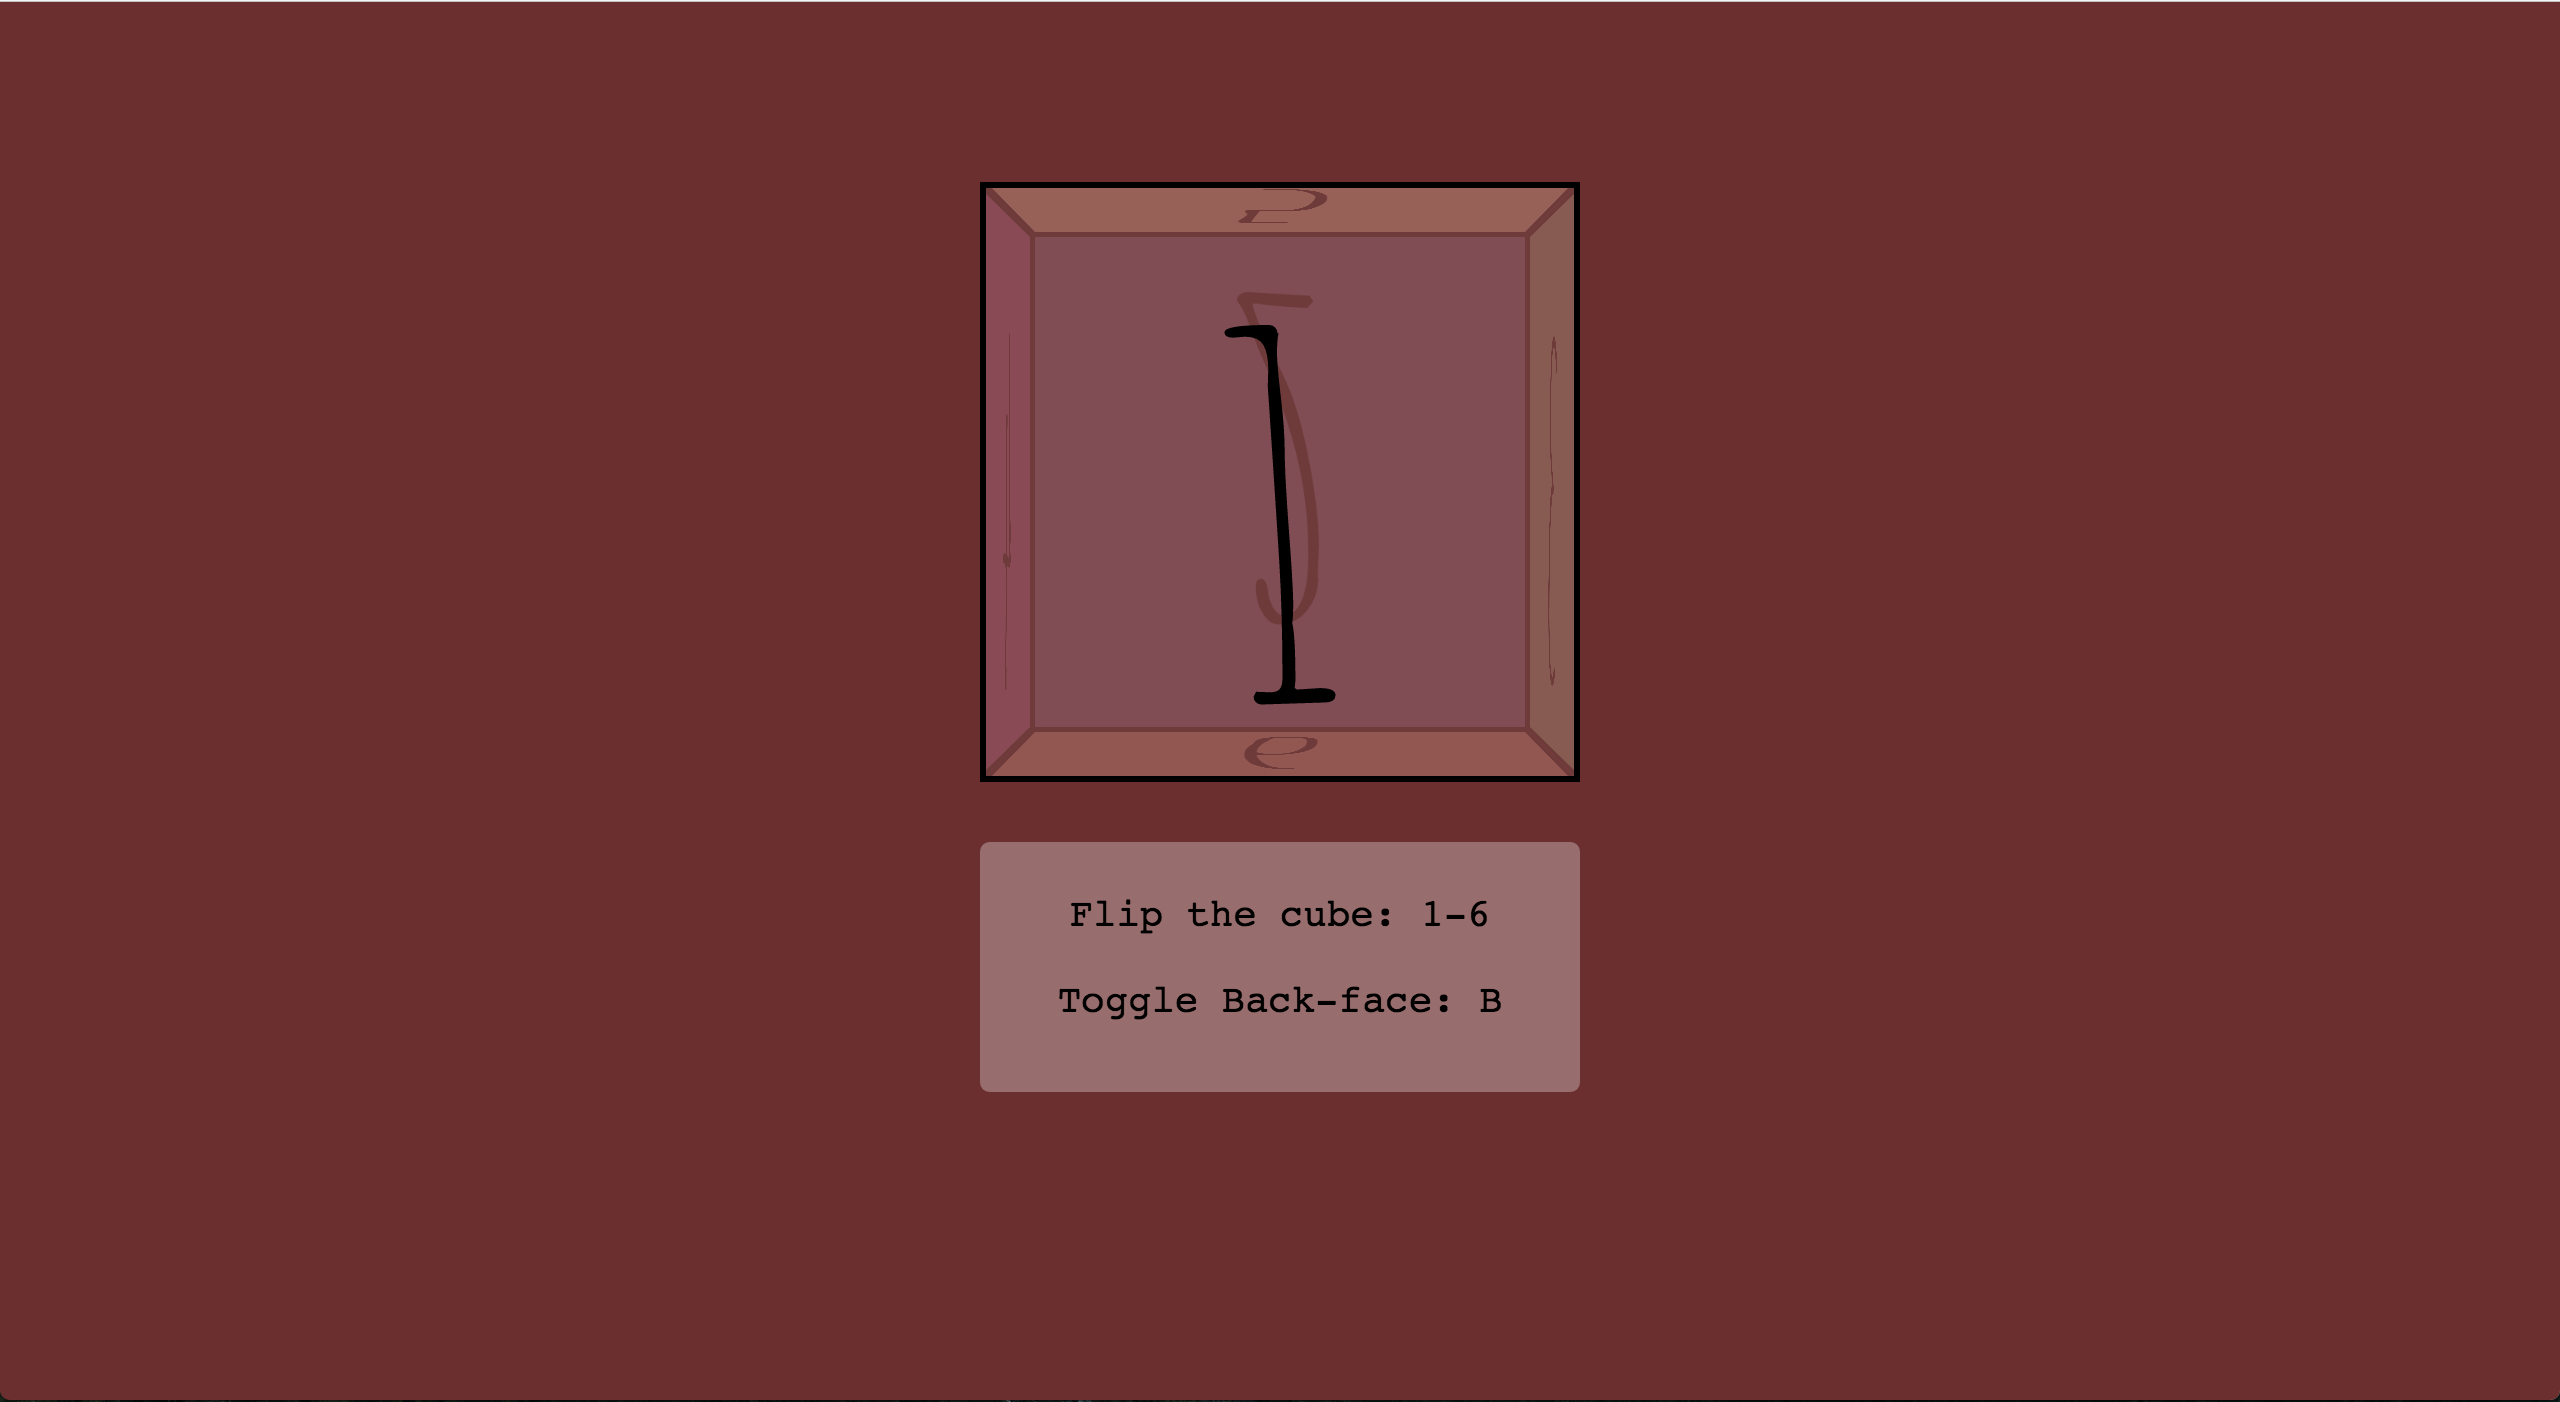
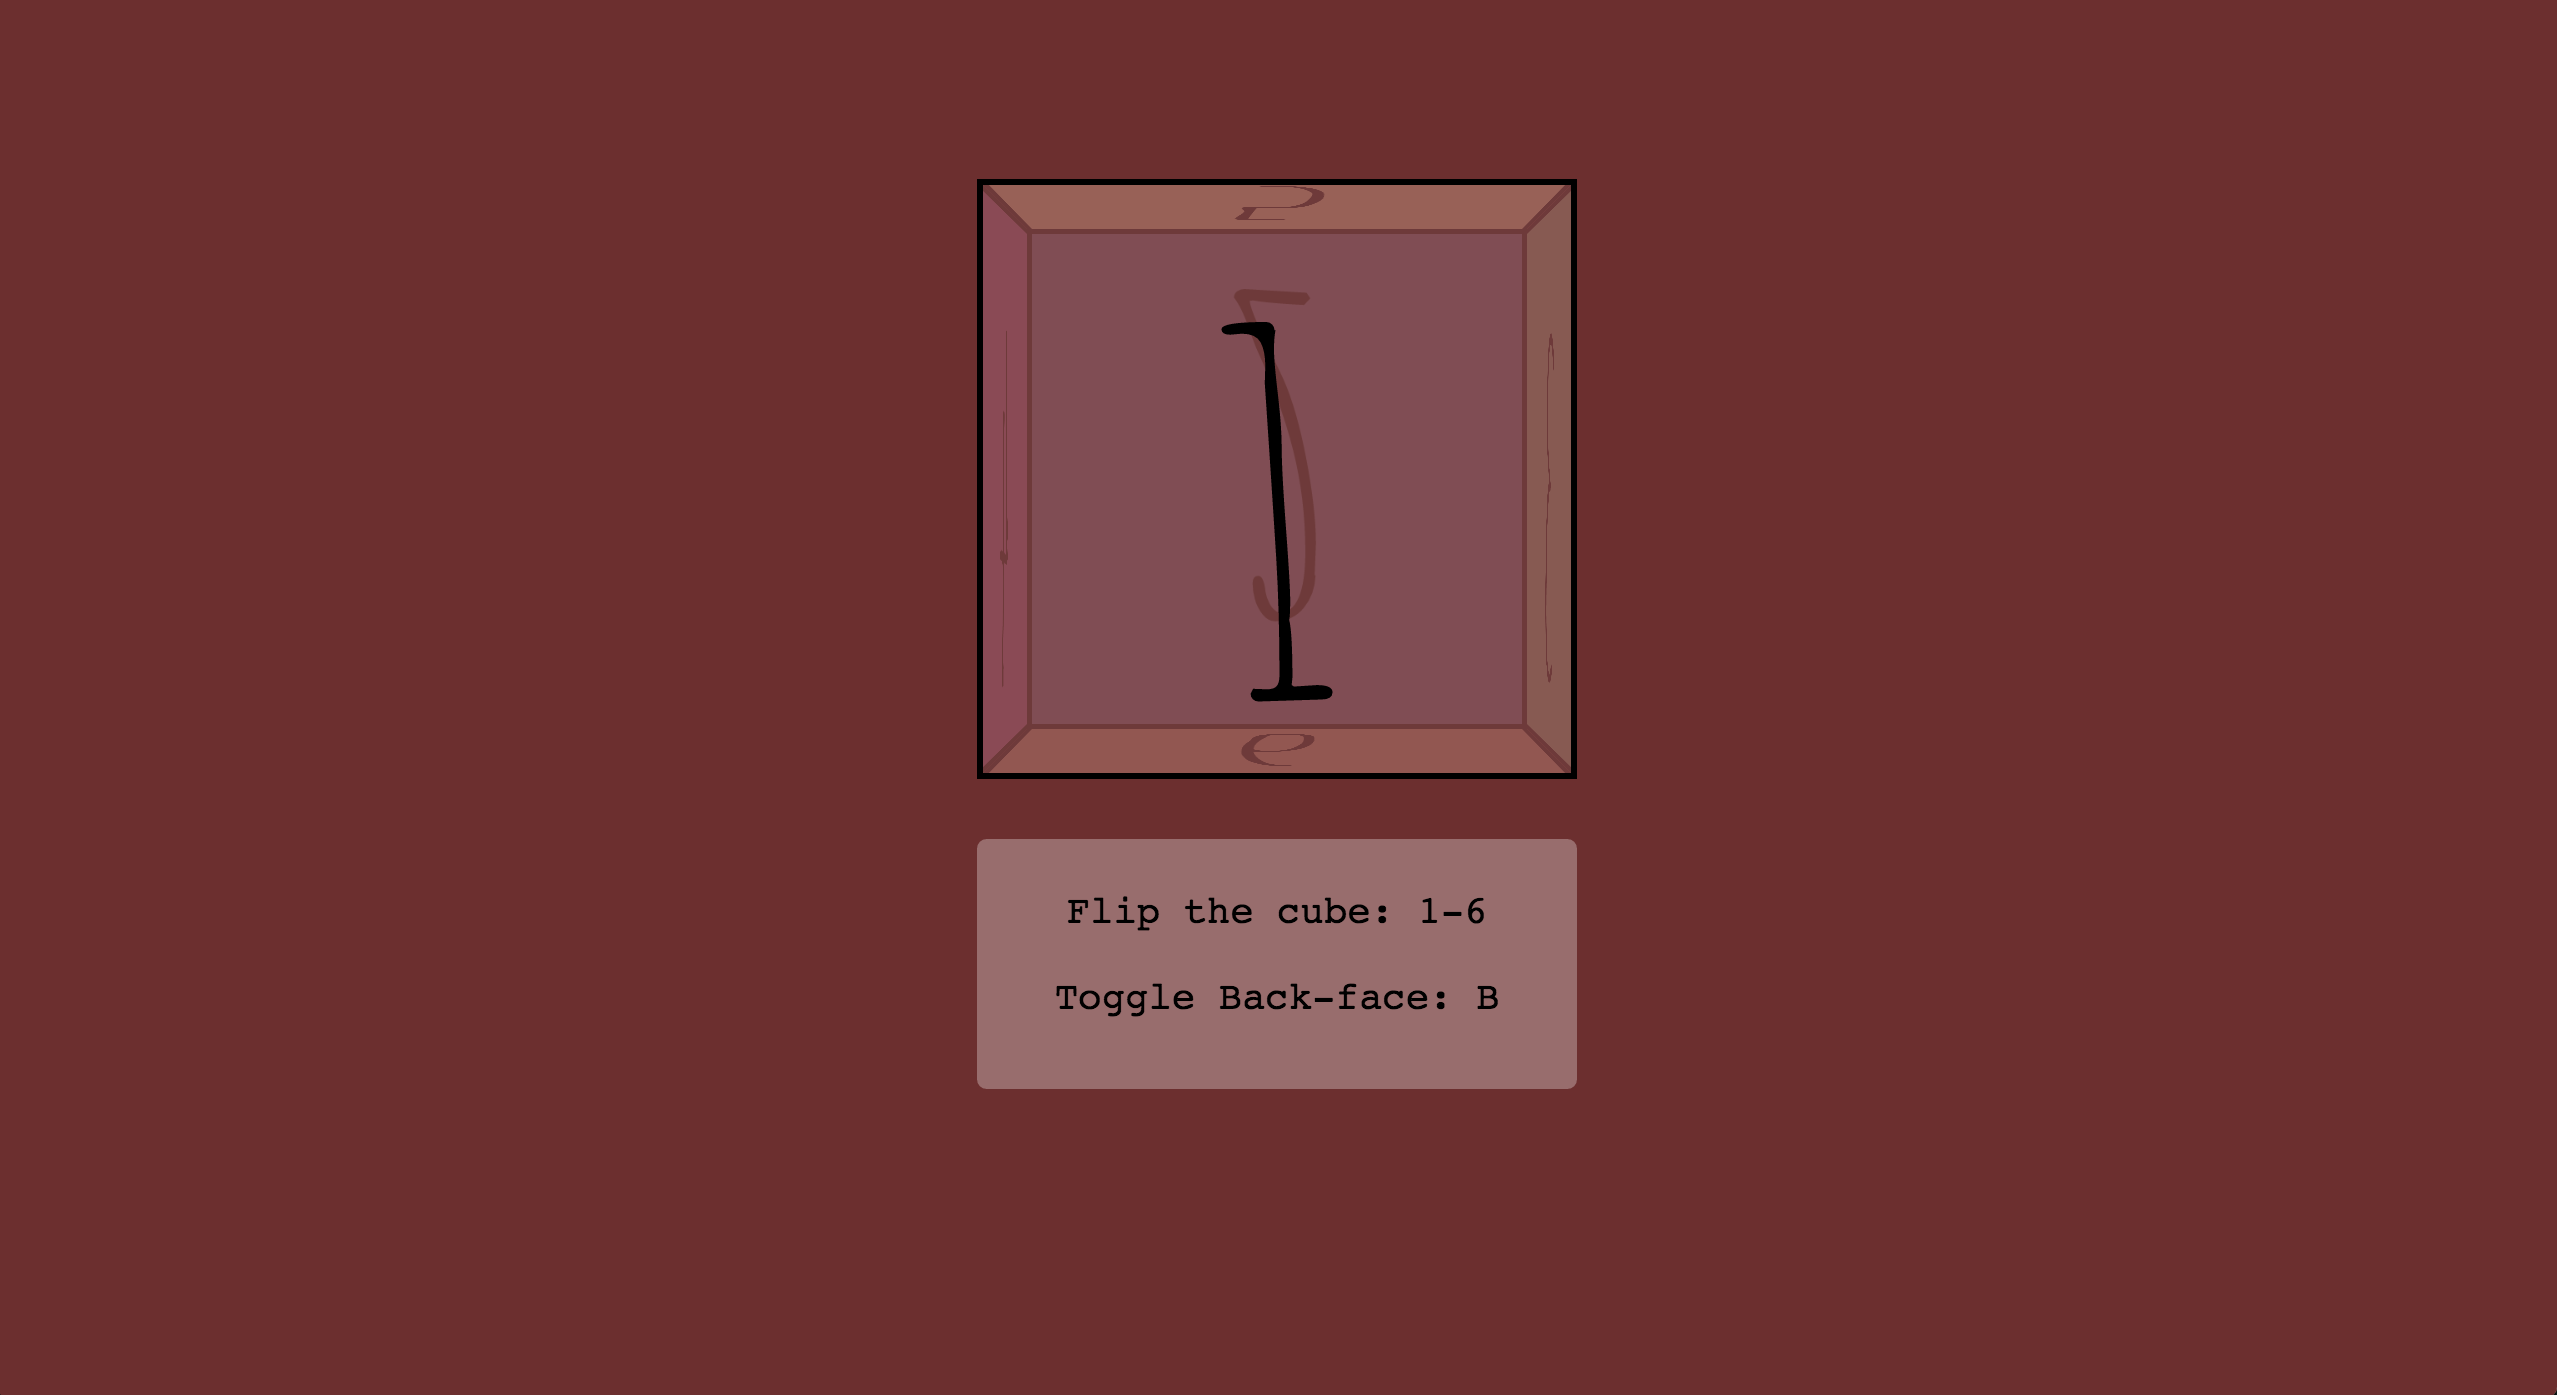
Begin adding in remaining showcases.

diff --git a/js/content.js b/js/content.js
@@ -78,6 +78,7 @@ const SHOWCASES = {
   ],
   widgets: [
     {
+      name: 'Elm Calculator',
       imageStyles: {
         backgroundPosition: 'top',
         backgroundImage: 'url("/assets/img/showcases/elm_calculator.png")'
@@ -86,6 +87,15 @@ const SHOWCASES = {
       details: 'A simple calculator built in Elm.'
     },
     {
+      name: 'Elm Clock',
+      imageStyles: {
+        backgroundImage: 'url("/assets/img/showcases/elm_clock.png")'
+      },
+      url: 'elm-clock.html',
+      details: 'A clock built in Elm with basic stopwatch and timer functionalities.'
+    },
+    {
+      name: 'Just Another List',
       imageStyles: {
         backgroundImage: 'url("/assets/img/showcases/jala.png")'
       },
@@ -95,6 +105,7 @@ const SHOWCASES = {
   ],
   graphics: [
     {
+      name: 'Cube Matrix',
       imageStyles: {
         backgroundPosition: 'center',
         backgroundImage: 'url("/assets/img/showcases/cube_matrix.png")'
@@ -103,6 +114,16 @@ const SHOWCASES = {
       details: 'A 3D cube matrix created with Three.js. Click and drag to move. Pinch to zoom.'
     },
     {
+      name: 'Night and Day City',
+      imageStyles: {
+        backgroundPosition: 'center',
+        backgroundImage: 'url("/assets/img/showcases/night_and_day_city.png")'
+      },
+      url: '',
+      details: 'A black and white minimal animated skyline. I was experimenting with what is possible with just HTML and CSS. No JavaScript logic necessary.'
+    },
+    {
+      name: 'Particles',
       imageStyles: {
         backgroundImage: 'url("/assets/img/showcases/particles.png")'
       },
@@ -112,6 +133,23 @@ const SHOWCASES = {
   ],
   logos: [
     {
+      name: 'Project Palette Logo',
+      imageStyles: {
+        backgroundImage: 'url("/assets/img/showcases/project_palette_logo.png")'
+      },
+      url: '',
+      details: "This is the logo animation that is used to show a loading state when Project Palette (showcased above) is processing a scrape for a given repository."
+    },
+    {
+      name: 'Carbonite Logo',
+      imageStyles: {
+        backgroundImage: 'url("/assets/img/showcases/carbonite_logo.png")'
+      },
+      url: '',
+      details: "An animated logo created for an internal tool called Carbonite, which was used to diff changes made to an application's build source."
+    },
+    {
+      name: 'Marine Layer Logo',
       imageStyles: {
         backgroundImage: 'url("/assets/img/showcases/marine_layer.png")'
       },
@@ -121,6 +159,23 @@ const SHOWCASES = {
   ],
   misc: [
     {
+      name: 'SVG Lightsaber',
+      imageStyles: {
+        backgroundImage: 'url("/assets/img/showcases/svg_lightsaber.png")'
+      },
+      url: '',
+      details: 'A fun little handcrafted SVG of a lightsaber.'
+    },
+    {
+      name: 'Spinner',
+      imageStyles: {
+        backgroundImage: 'url("/assets/img/showcases/spinner.png")'
+      },
+      url: '',
+      details: 'A basic spinner created and animated with CSS.'
+    },
+    {
+      name: 'Cube Flip',
       imageStyles: {
         backgroundImage: 'url("/assets/img/showcases/cube_flip.png")'
       },

diff --git a/css/style.css b/css/style.css
@@ -232,7 +232,7 @@ html, body {
   display: flex;
   flex-flow: column nowrap;
   justify-content: center;
-  align-items: center;
+  align-items: flex-start;
   box-sizing: border-box;
   font-size: 1em;
   text-align: left;
